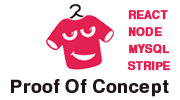
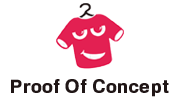
header top bar css updates.

diff --git a/nativeApp/src/components/UserBlock/userblock.js b/nativeApp/src/components/UserBlock/userblock.js
@@ -6,6 +6,7 @@ import { getCookie, deleteCookie } from "../../services/helpers";
 import { setUser } from "../../actions";
 import NavigationService from '../../routes/NavigationService.js';
 import SyncStorage from 'sync-storage';
+import {styles} from '../../containers/Home/home-styles'; 
 
 
 class UserBlock extends Component {
@@ -63,32 +64,25 @@ class UserBlock extends Component {
     totalAmount = Math.round(totalAmount * 100) / 100;
 
     return (
-      <View>
-        <View>
-            <View>
-                <Text>Hi!</Text>
+        <View style={styles.topbar}>
+            <View style={styles.topleft}>
+                <Text style={{...styles.hiblock, ...styles.toptext}}>Hi!</Text>
               {name ? (
-                <Text className="login-name-block">{name}</Text>
+                <Text style={{...styles.login_name_block, ...styles.toptext}}>{name}</Text>
               ) : (
-                  <Button title="Sign in" onPress={() => {
-                    NavigationService.navigate('Login');
-                }}/>
+		 				<TouchableOpacity  onPress={() => {NavigationService.navigate('Login');}}><Text style={{...styles.signin}}>Sign in</Text></TouchableOpacity>
               )}
+				  
             </View>
-            <View>
-              <View>
-                <Text>Your bag: ${totalAmount}</Text>
-              </View>
+            <View style={styles.toprightblock}>
+                <Text style={styles.toptext}>Your bag: ${totalAmount}</Text>
               {name ? (
-                <View>
-                <Button title="Logout" onPress={this.logout.bind(this)}/>
-              </View>
+				  	 <TouchableOpacity  onPress={this.logout.bind(this)}><Text style={{...styles.logout, ...styles.toptext}}>Logout</Text></TouchableOpacity>
             ) : (
               <View/>
             )}
             </View>
         </View>
-      </View>
     );
   }
 }

diff --git a/nativeApp/src/components/Navbar/navbar.js b/nativeApp/src/components/Navbar/navbar.js
@@ -6,6 +6,7 @@ import { connect } from "react-redux";
 import * as Actions from "../../actions";
 import NavigationService from '../../routes/NavigationService.js';
 import UserBlock from '../UserBlock/userblock';
+import {styles} from './navbar-styles'; 
 
 class NavBar extends Component {
 
@@ -16,8 +17,6 @@ class NavBar extends Component {
     };
   }
   componentDidMount() {
-
-  console.log("dfgdfgdfg0fgfgfgf000");
   this.props.getToken();
 
   }
@@ -39,23 +38,27 @@ class NavBar extends Component {
   };
   render() {
 
-    console.log("Navbar",this.props);
     return (
-        <View style={{flex: 0}}>
+        <View style={styles.header}>
         <UserBlock/>
-        <Image
-        style={{width: 150, height: 80}}
+		 <View style={styles.headtop}>
+        <View style={styles.logo}>
+		 <Image
+        style={{width: 120, height: 60}}
         source={require('../../images/proof-of-concept.png')}
         />
-
+		  </View>
+		  <View style={styles.burgermenu}>
         <TouchableOpacity >
           {/*Donute Button Image */}
           <Image
             source={require('../../images/menu_icon.png')}
-            style={{ width: 25, height: 25, marginLeft: 5 }}
+            style={{ width: 40, height: 25, marginLeft: 5, marginTop: 20, }}
           />
         </TouchableOpacity>
-
+			 </View>
+			 </View>
+			 <View style={styles.menu_block}>
         {this.props.categories && Object.values(this.props.categories).map((e,index)=>{
           console.log(e);
           return(
@@ -69,6 +72,7 @@ class NavBar extends Component {
            </Text>
        );
         })}
+		  </View>
      </View>
 
     );

diff --git a/nativeApp/src/containers/Home/home-styles.js b/nativeApp/src/containers/Home/home-styles.js
@@ -162,4 +162,33 @@ export const styles = StyleSheet.create({
 		fontSize: 18,
 		marginBottom: 15,
 	},
+	
+	/* Topblock styles */
+	
+	topbar:{
+		backgroundColor: '#f7f7f7',
+		paddingTop:10,
+		paddingBottom: 10,
+		paddingLeft: 15,
+		paddingRight:15,
+		flexDirection: 'row',
+		justifyContent:'space-between',
+		alignItems:'center',
+	},
+	topleft:{
+		flex:1,
+		flexDirection: 'row',
+	},
+	toptext:{
+		fontSize:15,
+		fontWeight: '700',
+		color:'#000',
+	},
+	signin:{
+		fontSize:15,
+		fontWeight: '700',
+		color:'#f62f5e',
+		marginLeft: 10,
+	},	
+	
 });

diff --git a/nativeApp/src/components/Navbar/navbar-styles.js b/nativeApp/src/components/Navbar/navbar-styles.js
@@ -1,5 +1,21 @@
 import {StyleSheet} from 'react-native';
 
 export const styles = StyleSheet.create({
-  
+  header:{
+	  backgroundColor: '#fff',
+	  borderBottomWidth: 1,
+	  borderBottomColor: '#b4b4b4',
+	  marginBottom:0,
+	  overflow:'hidden',
+  },
+  headtop:{
+	  flex:0,
+	  flexDirection: 'row',
+	  justifyContent:'space-between',
+	  paddingLeft:15,
+	  paddingRight:15,
+	  paddingTop:5,
+	  paddingBottom:5,
+  },
+
 });
